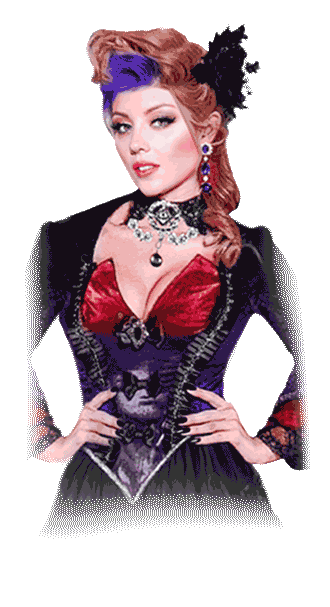
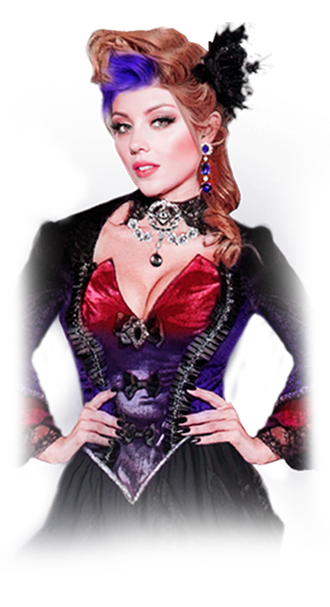
retoque en cartas

diff --git a/paginas/cartas.html b/paginas/cartas.html
@@ -832,7 +832,7 @@
                     </div>
                     
                     <div class="img-pjs animate__animated animate__fadeInRight">
-                        <img src="../img/sibila.png">
+                        <img src="../img/carta-sibila-q-j.png">
                     </div>
         
                               
